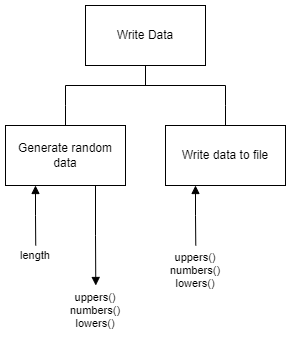
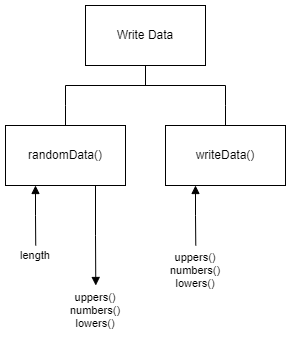
Updated task

Changed region(s): [[0.0619, 0.4106, 0.4021, 0.4985], [0.6186, 0.4399, 0.9278, 0.4692]]

diff --git a/higher/H-SDD-Write-Data/assets/writeData1-Test.py b/higher/H-SDD-Write-Data/assets/writeData1-Test.py
@@ -1,0 +1,177 @@
+# Title: H-SDD-Write-Data - Part 1 Tests
+# Author: Mr Friend
+# Date: 17 Sep 2024
+
+"""Tests the functions in writeData1.py"""
+
+import writeData1
+
+
+def testRandomData():
+    """Tests the randomData() function"""
+    
+    # Local variable
+    test = 1
+    uppers = []
+    numbers = []
+    lowers = []
+    
+    print("\nrandomData() Tests")
+    print("------------\n")
+    
+    try:
+        
+        print("Test " + str(test) +
+              ": Uppercase --> ", end="")
+        assert type(writeData1.randomData(3)[0][0]) == type("A")
+        print("Passed")
+        
+        test += 1
+        print("Test " + str(test) +
+              ": Number --> ", end="")
+        assert type(writeData1.randomData(3)[1][1]) == type(0)
+        print("Passed")
+        
+        test += 1
+        print("Test " + str(test) +
+              ": Lowercase --> ", end="")
+        assert type(writeData1.randomData(3)[2][2]) == type("a")
+        print("Passed")
+        
+        test += 1
+        print("Test " + str(test) +
+              ": All uppercase --> ", end="")
+        
+        uppers = writeData1.randomData(260)[0]
+        for counter in range(26):
+            assert chr(65 + counter) in uppers
+            
+        print("Passed")
+        
+        test += 1
+        print("Test " + str(test) +
+              ": All numbers --> ", end="")
+        
+        numbers = writeData1.randomData(260)[1]
+        for counter in range(10):
+            counter in numbers
+            
+        print("Passed")
+        
+        test += 1
+        print("Test " + str(test) +
+              ": All lowercase --> ", end="")
+        
+        lowers = writeData1.randomData(260)[2]
+        for counter in range(26):
+            assert chr(97 + counter) in lowers
+            
+        print("Passed")
+                     
+        print("\nPASSED: randomData()")
+        print("====================\n")
+        
+        return 1
+        
+    except:
+        print("Failed")
+        print("\nFAILED: randomData()")
+        print("====================\n")
+        
+        return 0
+
+
+def testWriteData():
+    """Tests the writeData() function"""
+    
+    import os
+    
+    # Local variable
+    test = 1
+    
+    print("\nwriteData() Tests")
+    print("-----------------\n")
+    
+    try:
+        
+        print("Test " + str(test) +
+              ": Write Data --> ", end="")
+        
+        writeData1.writeData(["A","B","C"],[1,2,3],["a","b","c"])
+        assert os.path.getsize("randomData.csv") == 21
+        
+        print("Passed")
+                     
+        print("\nPASSED: writeData()")
+        print("===================\n")
+        
+        return 1
+        
+    except:
+        print("Failed")
+        print("\nFAILED: right()")
+        print("===============\n")
+        
+        return 0
+
+
+def testAll():
+    """Tests all functions"""
+    
+    # Local variable
+    passed = 0
+    
+    print("\nRun All Tests")
+    print("--------------\n")
+    
+    try:
+        
+        passed += testRandomData()
+        passed += testWriteData()
+        
+        if passed == 2:
+            print("\nTesting of all functions: PASSED!")
+            print("=================================\n")
+        else:
+            1/0  # Throws an exception
+        
+    except:
+            print("\nTesting of all functions: FAILED!")
+            print("=================================\n")
+        
+
+#
+# Main program
+#
+
+# Initialise global variables
+test = ""
+run = True
+
+while run:
+    print("\nWrite Data Part 1 Tests")
+    print("-----------------------\n")
+
+    print("1. randomData() tests")
+    print("2. writeData() tests")
+    print("\na. All tests")
+    print("x. Exit")
+
+    # Get text value from user
+    test = input("\nTest: ")
+
+    if test == "1":
+        # 
+        testRandomData()
+        
+    elif test == "2":
+        # 
+        testWriteData()
+             
+    elif test == "a":
+        # Run all tests
+        testAll()
+        
+    elif test == "x":
+        # Exit tests
+        run = False

diff --git a/higher/H-SDD-Write-Data/assets/writeData1.py b/higher/H-SDD-Write-Data/assets/writeData1.py
@@ -71,4 +71,4 @@ def main():
     
 
 # Call main program
-main()
+#main()

diff --git a/higher/H-SDD-Write-Data/instructions1.md b/higher/H-SDD-Write-Data/instructions1.md
@@ -3,18 +3,24 @@
 
 ## Introduction
 
-Random data is required to help test some software.  A modular program is required to produce three series of:
+Often, random data is required to help test software.  For a particular task the following data series are required:
 
 1. random uppercase characters (A-Z)
 2. random single digits (0-9)
 3. random lowercase characters (a-z)
 
+The number of values produced can vary each time the code runs, but the number is the same for all three series.
 
 ## Task
 
-Implement a program that matches the data flow in the structure digram below.  Save the file as `writeData.py`.  The data is to be written to a file called `randomData.csv`.
+Implement a modular program that matches the data flow in the structure digram below.  Save the file as `writeData1.py`.  The data is to be written to a file called `randomData.csv`.
 
 
-### Design (Structure diagram)
+### Top level design (Structure diagram)
 
 ![Structure diagram](assets/sd1.png)
+
+
+## Testing
+
+Run the file [writeData1-Test.py](assets/writeData1-Test.py "Download file").  The file must be in the same folder as `writeData1.py`.

diff --git a/higher/README.md b/higher/README.md
@@ -14,7 +14,7 @@
 | H-SDD-Caesar-Cipher Pt 2 | Ciphertext to plaintext       | sp, mod, ss, asc, chr      | Part 2, tests |
 | H-SDD-Convert            | Multiple conversions of units | sp, int, mod               | Tests |
 | H-SDD-Substring          | Multiple string manipulations | sp, ss, asc, chr           | Tests |
-| H-SDD-Write-Data Pt 1    | Create and write random data  | sp, pa, chr, w             | Part 1 |
+| H-SDD-Write-Data Pt 1    | Create and write random data  | sp, pa, chr, w             | Part 1, tests |
 | H-SDD-Bearings Pt 1      | | | Part 1 |
 | H-SDD-Bearings Pt 2      | | | Part 2 |
 | H-SDD-Frequency-Analysis | | | |
